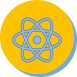
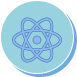
add styles

diff --git a/src/Components/About.jsx b/src/Components/About.jsx
@@ -1,0 +1,109 @@
+import { GrNext } from "react-icons/gr";
+const About = () => {
+  return (
+    <>
+      <div className="relative ">
+        <div className="bg-gradient-to-l pt-2 from-primary/30 border-t-primary/20 border-t-2 mt-[234px] md:mt-[120px]  -p-20  -z-10 w-full h-[900px]">
+          <img
+            src="/images/pattern3.png"
+            className="absolute -mt-40 md:-mt-0 h-[900px] w-full -z-[400] opacity-[10%]"
+            alt=""
+          />
+          <div className="flex justify-between mt-[100px]">
+            <div className=" relative z-20 left-0 -space-y-4">
+              <div className="flex items-center">
+                <hr className="border-4 border-primary rounded-tr-lg w-10" />
+                <img src="/images/html.png" className="-ml-4" alt="" />
+              </div>
+              <div className="flex items-center">
+                <hr className="border-4 border-primary rounded-tr-lg w-12" />
+                <img src="/images/css.png" className="-ml-4" alt="" />
+              </div>
+              <div className="flex items-center -mt-4">
+                <hr className="border-4 border-primary rounded-tr-lg w-14" />
+                <img src="/images/js.png" className="-ml-4" alt="" />
+              </div>
+              <div className="flex items-center">
+                <hr className="border-4 border-primary rounded-tr-lg w-16" />
+                <img src="/images/btr.png" className="-ml-4" alt="" />
+              </div>
+              <div className="flex items-center">
+                <hr className="border-4 border-primary rounded-tr-lg w-20" />
+                <img src="/images/tailwind.png" className="-ml-4" alt="" />
+              </div>
+              <div className="flex items-center">
+                <hr className="border-4 border-primary rounded-tr-lg w-24" />
+                <img src="/images/react.png" className="-ml-4" alt="" />
+              </div>
+              <div className="flex items-center">
+                <hr className="border-4 border-primary rounded-tr-lg w-28" />
+                <img src="/images/php.png" className="-ml-4" alt="" />
+              </div>
+              <div className="flex items-center">
+                <hr className="border-4 border-primary rounded-tr-lg w-32" />
+                <img src="/images/laravel.png" className="-ml-4" alt="" />
+              </div>
+              <div className="flex items-center">
+                <hr className="border-4 border-primary rounded-tr-lg w-36" />
+                <img src="/images/mysql.png" className="-ml-4" alt="" />
+              </div>
+              <div className="flex items-center">
+                <hr className="border-4 border-primary rounded-tr-lg w-40" />
+                <img src="/images/firebase.png" className="-ml-4" alt="" />
+              </div>
+            </div>
+
+            <div className="absolute w-full  md:-mt-60 md:w-[670px] md:mx-80 pt-[360px] text-right">
+              <h1 className="text-4xl font-bold mb-4 absolute -bottom-[250px] md:relative md:bottom-0 right-0 bg-gradient-to-l pr-2 text-white  from-primary rounded-xl">
+                🚀About Me
+              </h1>
+              <div className="absolute mx-2 -bottom-[410px] md:relative md:bottom-0">
+                <div className="bg-white px-2 md:w-[600px] border-2 h-40 rounded-xl p-4">
+                  <h1 className="text-right">
+                    My name is Fabyan Yastika Permana, a website developer that
+                    focus on developing modern website with modern technology. I
+                    am enthusiastic about learning new technology and apply it
+                    to my several project.
+                  </h1>
+                  <h1 className="text-left mt-10 hidden md:flex">
+                    ~ Fabyan Yastika Permana
+                  </h1>
+                </div>
+                <div className="bg-primary w-[600px] absolute -mt-36 ml-4 -z-10 h-40 rounded-xl shadow-2xl"></div>
+              </div>
+              <div className="mt-24 flex -ml-20">
+                <img
+                  src="/images/arrow.png"
+                  className="hidden md:flex"
+                  alt=""
+                />
+                <h1 className="md:mt-24 text-2xl absolute md:text-7xl font-semibold hover:rotate-0 duration-150 hover:bg-gradient-to-r from-primary  to-third hover:shadow-2xl hover:text-white right-0  -rotate-[6deg] p-2 rounded-xl">
+                  My Tech Stack!
+                </h1>
+              </div>
+            </div>
+
+            <div className="md:-mr-20 absolute z-20 right-0  w-44 md:w-[500px] ">
+              <div className="bg-primary/30 w-[220px] h-[220px] md:w-[600px] md:h-[600px] absolute right-0 -mr-10 md:-mr-20 -z-10 rounded-full shadow-xl"></div>
+              <div className="bg-white cursor-pointer md:w-20 md:h-20 w-10 h-10 absolute text-4xl flex items-center justify-center rounded-full bottom-6 -ml-4 shadow-xl md:bottom-24">
+                <GrNext />{" "}
+              </div>
+              <img src="/images/Foto.jpg" className="rounded-full" alt="" />
+              <div className="bg-blue-500 md:w-4 md:h-4 w-2 h-2 absolute md:-mt-20 md:ml-10 -mt-4 ml-6 rounded-full"></div>
+              <div className="border-primary border-2 md:w-4 md:h-4 w-2 h-2 absolute mt-[2px] ml-[40px] md:-mt-[46px] md:ml-[70px] rounded-full"></div>
+              <div className="border-primary border-2 md:w-4 md:h-4 w-2 h-2 absolute mt-[16px] ml-[65px] md:-mt-[20px] md:ml-[100px] rounded-full"></div>
+              <div className="border-primary border-2 md:w-4 md:h-4 w-2 h-2 absolute mt-[30px] ml-[90px] md:mt-[10px] md:ml-[140px] rounded-full"></div>
+            </div>
+            {/* <div className="absolute bg-primary -rotate-[20deg] w-[2500px] -right-[800px] h-40 -z-[999]" />
+      <div className="absolute bg-primary  w-[2500px] -right-[800px] h-40 -z-[999]" /> */}
+            <div className="w-16 overflow-hidden inline-block">
+              {/* <div className=" h-11 w-11 bg-primary transform origin-top-left"></div> */}
+            </div>
+          </div>
+        </div>
+      </div>
+    </>
+  );
+};
+
+export default About;

diff --git a/src/Components/Portfolio.jsx b/src/Components/Portfolio.jsx
@@ -1,0 +1,48 @@
+// import "./style.css";
+const Portfolio = () => {
+  return (
+    <>
+      <div className="relative w-full pt-32 bg-gradient-to-tr container from-primary/30 min-h-screen">
+        <div className="">
+          <h1 className="font-bold text-5xl md:text-7xl">My Best Project</h1>
+          <p className="font-semibold text-xl md:text-2xl md:w-[800px] mt-4">
+            Lorem ipsum dolor sit amet consectetur adipisicing elit. Totam
+            reprehenderit tempore ipsam ad dolor eveniet nemo consequatur
+            molestias rerum non?
+          </p>
+        </div>
+        <div className="space-y-4">
+          <div className="md:flex mt-14 md:space-x-4 space-y-4 md:space-y-0">
+            <div className="w-full  h-96 bg-white border-2 p-4 border-primary rounded-2xl">
+              <div className="flex">
+                <img src="/images/fasite.png" className="w-10 h-10" alt="" />
+                <h1 className="mt-2">Fabyan Site</h1>
+              </div>
+              <div>
+                <h1>Lorem ipsum dolor sit amet consectetur adipisicing elit. Pariatur praesentium illum nam aperiam ratione sint, quia deleniti eligendi cumque eos?</h1>
+              </div>
+            </div>
+            <div className="w-full h-96 bg-white border-2 p-2 border-primary rounded-2xl">
+              Koding Bareng
+            </div>
+          </div>
+          <div className="md:flex md:space-x-4 space-y-4 md:space-y-0">
+            <div className="w-full h-96 bg-white border-2 p-2 border-primary rounded-2xl">
+              Mobilgo
+            </div>
+            <div className="w-full h-96 bg-white border-2 p-2 border-primary rounded-2xl">
+              SPK
+            </div>
+          </div>
+          <div className="flex items-center justify-center">
+            <div className="w-full md:mx-80 h-96 bg-white border-2 p-2 border-primary rounded-2xl">
+              Kreasi Ngalam Media
+            </div>
+          </div>
+        </div>
+      </div>
+    </>
+  );
+};
+
+export default Portfolio;

diff --git a/src/Pages/Index.jsx b/src/Pages/Index.jsx
@@ -1,6 +1,7 @@
 import Hero from "../Components/Hero";
 import Nav from "../Components/Nav";
-import About from "./About";
+import About from "../Components/About";
+import Portfolio from "../Components/Portfolio";
 const Index = () => {
   return (
     <>
@@ -9,7 +10,8 @@ const Index = () => {
         <Hero />
       </div>
       <About />
-      <div className="mt-96">TES</div>
+      <Portfolio />
+      <div className="mt-96"></div>
     </>
   );
 };

diff --git a/src/Components/style.css b/src/Components/style.css
@@ -10,3 +10,10 @@
 .moving-rounded-image {
   animation: moveImage 5s linear infinite;
 }
+/* Define the gradient border class with rounded corners */
+/* .border-gradient {
+  border: 2px solid transparent;
+  background-clip: padding-box;
+  border-image: linear-gradient(45deg, #6da9e4, #ade4db);
+  border-image-slice: 1;
+} */

diff --git a/tailwind.config.js b/tailwind.config.js
@@ -9,7 +9,11 @@ export default {
         roboto: ["Roboto"],
         figtree: ["Figtree"],
       },
-      colors: {},
+      colors: {
+        primary: "#6DA9E4",
+        second: "#ADE4DB",
+        third: "#F6BA6F"
+      },
       container: {
         center: true,
         padding: "32px",
